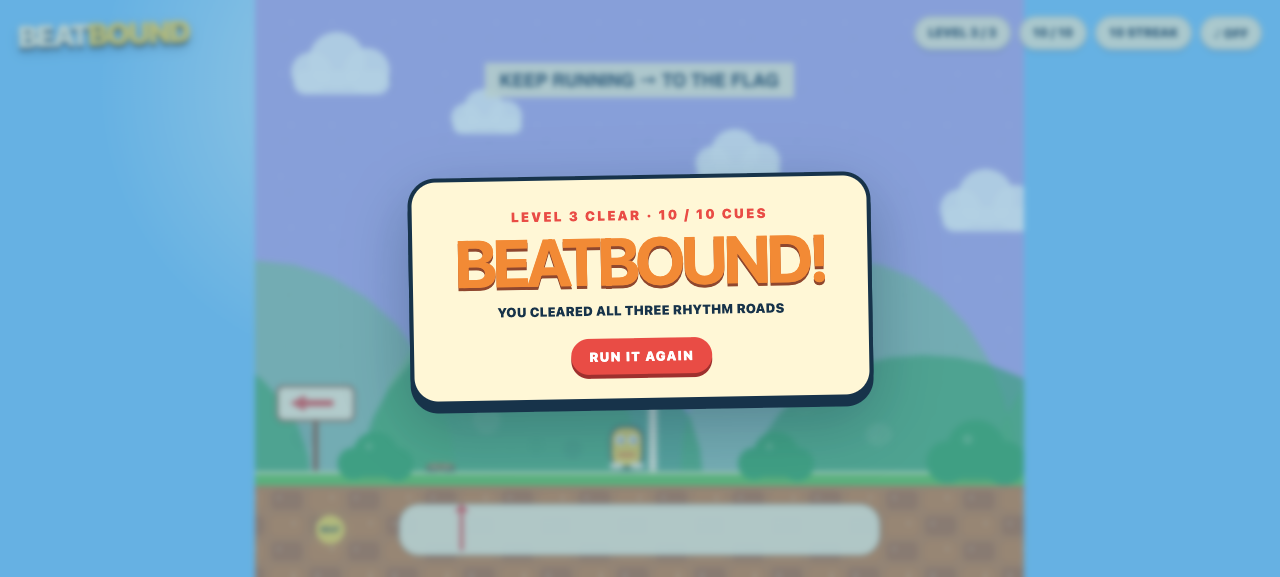
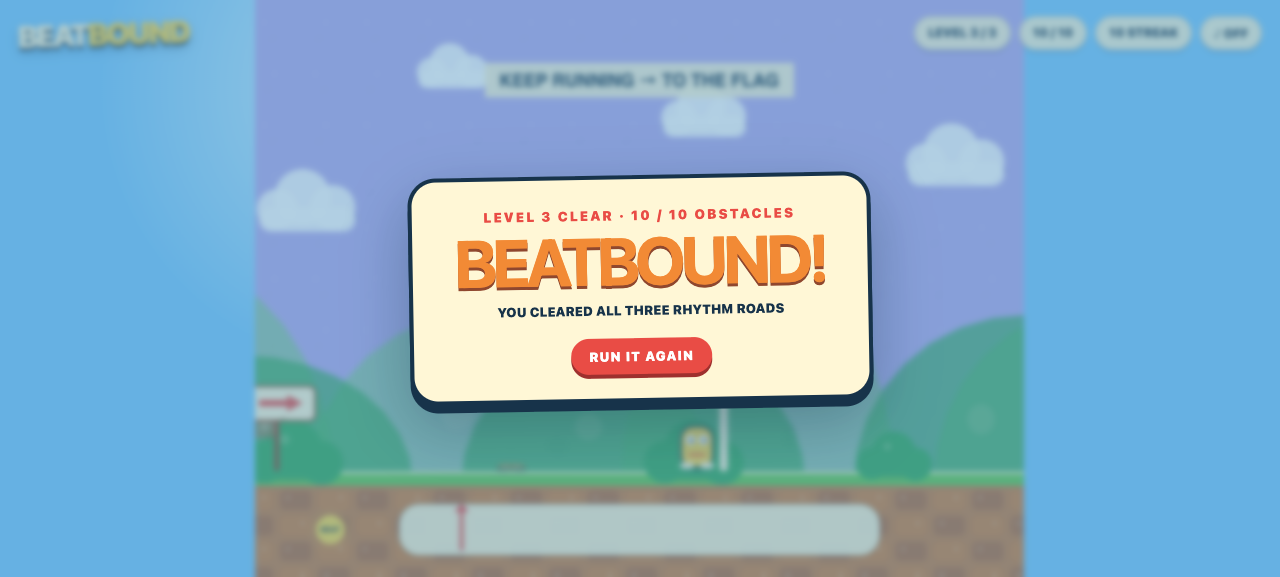
Make rhythm cues optional and simplify level three

diff --git a/rhythm-platformer/src/main.ts b/rhythm-platformer/src/main.ts
@@ -90,7 +90,6 @@ class GameScene extends Phaser.Scene {
   private elapsedMs = 0;
   private nextEvent = 0;
   private combo = 0;
-  private accepted = new Set<number>();
   private cleared = new Set<number>();
   private autoPressed = new Set<number>();
   private moveAxis: -1 | 0 | 1 = 0;
@@ -207,7 +206,7 @@ class GameScene extends Phaser.Scene {
 
     for (let i = 0; i < 16; i += 1) {
       const x = 390 + i * 250;
-      if (i % 3 === 0) this.drawBeatBlock(ground, x, 425 - (i % 2) * 45);
+      if (i % 3 === 0) this.drawMusicNote(ground, x, 425 - (i % 2) * 45);
       else this.drawBush(ground, x, 585, 0.8 + (i % 2) * 0.25);
     }
 
@@ -249,13 +248,11 @@ class GameScene extends Phaser.Scene {
     g.fillStyle(COLORS.cream, 0.22).fillCircle(x - 10 * scale, y - 35 * scale, 6 * scale);
   }
 
-  private drawBeatBlock(g: Phaser.GameObjects.Graphics, x: number, y: number): void {
-    g.fillStyle(COLORS.ink, 0.18).fillRoundedRect(x - 24, y - 19, 54, 54, 7);
-    g.fillStyle(COLORS.yellow, 1).fillRoundedRect(x - 27, y - 25, 54, 54, 7);
-    g.lineStyle(3, COLORS.orange, 0.8).strokeRoundedRect(x - 27, y - 25, 54, 54, 7);
-    g.fillStyle(COLORS.cream, 0.9).fillCircle(x - 17, y - 15, 3).fillCircle(x + 17, y - 15, 3)
-      .fillCircle(x - 17, y + 19, 3).fillCircle(x + 17, y + 19, 3);
-    g.fillStyle(COLORS.orange, 1).fillCircle(x, y - 5, 8).fillRect(x - 3, y + 2, 6, 12);
+  private drawMusicNote(g: Phaser.GameObjects.Graphics, x: number, y: number): void {
+    g.fillStyle(COLORS.cream, 0.16).fillCircle(x, y, 39);
+    g.fillStyle(COLORS.ink, 0.16).fillEllipse(x - 10, y + 17, 22, 15);
+    g.fillStyle(COLORS.ink, 0.16).fillRect(x - 3, y - 22, 7, 40);
+    g.fillStyle(COLORS.ink, 0.16).fillTriangle(x + 4, y - 22, x + 25, y - 13, x + 4, y - 5);
   }
 
   private drawRunSign(g: Phaser.GameObjects.Graphics, event: BeatEvent): void {
@@ -337,12 +334,12 @@ class GameScene extends Phaser.Scene {
     const titles = [
       'RUN RIGHT.<br>JUMP BIG.',
       'JUMP OR<br>DUCK.',
-      'FOLLOW THE<br>ARROWS.',
+      'FINAL<br>DASH.',
     ];
     const controls = [
       'HOLD D OR → &nbsp; · &nbsp; HOLD SPACE FOR A BIGGER JUMP',
       'SPACE = JUMP &nbsp; · &nbsp; HOLD S OR ↓ TO STAY LOW',
-      'A / D = RUN &nbsp; · &nbsp; HOLD ACTIONS &nbsp; · &nbsp; HIT THE BEAT',
+      'KEEP RIGHT &nbsp; · &nbsp; THE BEAT HELPS, BUT THE ROAD DECIDES',
     ];
     return `
       <small>LEVEL ${this.currentLevelIndex + 1} · ${this.definition.name} · ${BPM} BPM</small>
@@ -565,7 +562,6 @@ class GameScene extends Phaser.Scene {
     this.elapsedMs = 0;
     this.nextEvent = 0;
     this.combo = 0;
-    this.accepted.clear();
     this.cleared.clear();
     this.autoPressed.clear();
     this.jumpStartedAt = -Infinity;
@@ -601,27 +597,17 @@ class GameScene extends Phaser.Scene {
     const delta = timingDeltaMs(this.elapsedMs, event);
 
     if (Math.abs(delta) > ACTION_WINDOW_MS) {
-      if (delta < -ACTION_WINDOW_MS) this.feedback('OFF BEAT · TRY AGAIN ON THE CUE', COLORS.orange);
+      if (delta < -ACTION_WINDOW_MS) this.feedback('OFF BEAT · WATCH THE ROAD', COLORS.orange);
       return;
     }
-    if (action !== event.action) {
-      this.fail(`NEEDED ${event.action.toUpperCase()}`);
-      return;
-    }
-    if (Math.abs(this.character.x - event.to.x) > POSITION_TOLERANCE) {
-      const behind = event.direction === 1 ? this.character.x < event.to.x : this.character.x > event.to.x;
-      this.fail(behind ? `KEEP HOLDING ${event.direction === 1 ? '→' : '←'}` : 'TOO FAR AHEAD');
-      return;
-    }
+    if (action !== event.action || Math.abs(this.character.x - event.to.x) > POSITION_TOLERANCE) return;
 
-    this.accepted.add(event.index);
     this.nextEvent += 1;
     this.combo += 1;
     const perfect = Math.abs(delta) <= 80;
     this.feedback(perfect ? `PERFECT ${action.toUpperCase()}!` : 'NICE!', perfect ? COLORS.mint : COLORS.yellow);
     this.audio.hit(action, perfect ? 'perfect' : 'good');
     this.comboElement.textContent = `${this.combo} STREAK`;
-    this.progressElement.textContent = `${this.nextEvent} / ${this.level.length}`;
   }
 
   private beginAction(action: Action): boolean {
@@ -675,7 +661,7 @@ class GameScene extends Phaser.Scene {
     const hasNextLevel = this.currentLevelIndex < this.levels.length - 1;
     const next = this.levels[this.currentLevelIndex + 1];
     this.startButton.querySelector('.start-card')!.innerHTML = `
-      <small>LEVEL ${this.currentLevelIndex + 1} CLEAR · ${this.level.length} / ${this.level.length} CUES</small>
+      <small>LEVEL ${this.currentLevelIndex + 1} CLEAR · ${this.level.length} / ${this.level.length} OBSTACLES</small>
       <strong>${hasNextLevel ? 'NICE RUN!' : 'BEATBOUND!'}</strong>
       <em>${hasNextLevel ? `NEXT: ${next.name} · ${next.subtitle}` : 'YOU CLEARED ALL THREE RHYTHM ROADS'}</em>
       <span class="start-cta">${hasNextLevel ? 'NEXT LEVEL' : 'RUN IT AGAIN'}</span>`;
@@ -709,8 +695,9 @@ class GameScene extends Phaser.Scene {
       }
     }
     if (event && timingDeltaMs(this.elapsedMs, event) > ACTION_WINDOW_MS) {
-      this.fail(`MISSED THE ${event.action.toUpperCase()}`);
-      return;
+      this.nextEvent += 1;
+      this.combo = 0;
+      this.comboElement.textContent = '0 STREAK';
     }
 
     this.updateCharacter(gameDeltaMs);
@@ -730,7 +717,7 @@ class GameScene extends Phaser.Scene {
     const finalEvent = this.level[this.level.length - 1];
     const finishX = finalEvent.hazardX + finalEvent.direction * 230;
     const reachedFinish = finalEvent.direction === 1 ? this.character.x >= finishX : this.character.x <= finishX;
-    if (this.nextEvent === this.level.length && reachedFinish) this.win();
+    if (this.cleared.size === this.level.length && reachedFinish) this.win();
   }
 
   private updateCharacter(gameDeltaMs: number): void {
@@ -767,10 +754,11 @@ class GameScene extends Phaser.Scene {
       const passed = event.direction === 1
         ? this.character.x > event.hazardX + 48
         : this.character.x < event.hazardX - 48;
-      if (this.accepted.has(event.index) && passed && !this.cleared.has(event.index)) {
+      if (passed && !this.cleared.has(event.index)) {
         this.cleared.add(event.index);
         enemy.setAlpha(0.35);
         if (event.action === 'jump') enemy.setScale(1, 0.3).setY(584);
+        this.progressElement.textContent = `${this.cleared.size} / ${this.level.length}`;
       }
     });
   }
@@ -778,7 +766,6 @@ class GameScene extends Phaser.Scene {
   private checkHazardCollisions(): void {
     for (const event of this.level) {
       if (this.cleared.has(event.index)) continue;
-      if (event.index !== this.nextEvent && !this.accepted.has(event.index)) continue;
       if (Math.abs(this.character.x - event.hazardX) > 42) continue;
       if (event.action === 'jump') {
         const playerBottom = this.character.y + 26 * this.character.scaleY;
@@ -824,7 +811,9 @@ class GameScene extends Phaser.Scene {
     const next = this.level[this.nextEvent];
     if (!next) {
       const direction = this.level[this.level.length - 1].direction === 1 ? '→' : '←';
-      this.promptText.setText(`KEEP RUNNING ${direction} TO THE FLAG`);
+      this.promptText.setText(this.cleared.size === this.level.length
+        ? `KEEP RUNNING ${direction} TO THE FLAG`
+        : `CUES OVER · WATCH THE ROAD ${direction}`);
       return;
     }
     const beatsAway = Math.max(0, Math.ceil((beatToMs(next.beat) - elapsedMs) / BEAT_MS));

diff --git a/rhythm-platformer/src/level.ts b/rhythm-platformer/src/level.ts
@@ -66,14 +66,14 @@ const DUCK_AND_RUN: EventSpec[] = [
   { beats: 4, action: 'duck', direction: 1 },
 ];
 
-const SWITCHBACK: EventSpec[] = [
+const FINAL_DASH: EventSpec[] = [
   // Give the final road a clear count-in: its opening jump lands on beat one of bar two.
   { beats: BEATS_PER_BAR, action: 'jump', direction: 1 },
   { beats: 3, action: 'duck', direction: 1 },
   { beats: 3, action: 'jump', direction: 1 },
-  { beats: 4, action: 'jump', direction: -1 },
-  { beats: 3, action: 'duck', direction: -1 },
-  { beats: 3, action: 'jump', direction: -1 },
+  { beats: 4, action: 'jump', direction: 1 },
+  { beats: 3, action: 'duck', direction: 1 },
+  { beats: 3, action: 'jump', direction: 1 },
   { beats: 3, action: 'duck', direction: 1 },
   { beats: 2, action: 'jump', direction: 1 },
   { beats: 2, action: 'duck', direction: 1 },
@@ -109,7 +109,7 @@ export function createLevels(): LevelDefinition[] {
   const definitions = [
     { id: 'beginner-road', name: 'BEGINNER ROAD', subtitle: 'RUN RIGHT · JUMP BIG', startX: START_X, specs: TUTORIAL },
     { id: 'bop-and-duck', name: 'BOP & DUCK', subtitle: 'TWO MOVES · QUICKER CUES', startX: START_X, specs: DUCK_AND_RUN },
-    { id: 'switchback', name: 'SWITCHBACK SPRINT', subtitle: 'WATCH THE ARROWS', startX: 1_350, specs: SWITCHBACK },
+    { id: 'final-dash', name: 'FINAL DASH', subtitle: 'FAST CUES · ONE-WAY ROAD', startX: START_X, specs: FINAL_DASH },
   ] as const;
 
   return definitions.map(({ specs, ...definition }) => ({

diff --git a/rhythm-platformer/src/level.test.ts b/rhythm-platformer/src/level.test.ts
@@ -22,7 +22,7 @@ describe('three-level beat road', () => {
     expect(levels.map((level) => level.events.length)).toEqual([7, 9, 10]);
     expect(new Set(levels[0].events.map((event) => event.action))).toEqual(new Set(['jump']));
     expect(new Set(levels[1].events.map((event) => event.action))).toEqual(new Set(['jump', 'duck']));
-    expect(new Set(levels[2].events.map((event) => event.direction))).toEqual(new Set([-1, 1]));
+    expect(levels[2].events.every((event) => event.direction === 1)).toBe(true);
   });
 
   it('gives every level one continuous, traversable route', () => {
@@ -39,7 +39,7 @@ describe('three-level beat road', () => {
     }
   });
 
-  it('starts the switchback with a jump on a strong downbeat', () => {
+  it('starts the final dash with a jump on a strong downbeat', () => {
     const opening = levels[2].events[0];
     expect(opening.action).toBe('jump');
     expect(isDownbeat(opening.beat)).toBe(true);

diff --git a/rhythm-platformer/README.md b/rhythm-platformer/README.md
@@ -2,11 +2,11 @@
 
 Beatbound is a three-level rhythm platformer built with Phaser and Tone.js. Hold a direction for several beats, then jump or duck when the next cue reaches the timing marker. The procedural soundtrack layers a heavy downbeat, an eight-bar lead melody, a changing chord progression, and a one-beat audio warning for every action.
 
-The bright side-scrolling roads use small enemies, rolling hills, clouds, beat blocks, and a procedural dash-and-dot background texture. The difficulty now builds across three short stages:
+The bright side-scrolling roads use small enemies, rolling hills, clouds, background music notes, and a procedural dash-and-dot texture. The difficulty now builds across three short stages:
 
 1. **Beginner Road** — seven forgiving jumps with long four-to-five-beat runs.
 2. **Bop & Duck** — adds low flyers, duck cues, and three-beat patterns.
-3. **Switchback Sprint** — opens with a jump on the strong downbeat, mixes both actions and directions, and finishes with two-beat cues.
+3. **Final Dash** — opens with a jump on the strong downbeat, keeps every obstacle on one readable road, and finishes with two-beat cues.
 
 ```bash
 bun install
@@ -16,7 +16,8 @@ bun run dev
 - **Move:** hold **A / D** or **← / →**.
 - **Jump:** press **Space / W / ↑**; hold briefly for a slightly higher jump.
 - **Duck:** hold **S / ↓**; release to stand early. Ducks end automatically after 1.25 beats.
-- Actions always respond off-beat, but only cue-timed actions build the streak and clear the rhythm prompt.
+- Actions always work off-beat; cue-timed actions build the streak, while off-beat play relies on reading the road yourself.
+- Every visible bouncer and flyer has a normal platformer collision. Only hitting an obstacle fails the run—missing a rhythm cue does not.
 - A failed or completed run restarts immediately with one press. Held movement remains active through a Space restart.
 - `bun run test` validates all three routes, beat quantization, run distance, progression, and timing precision.
 - `?music=off` starts muted.

diff --git a/rhythm-platformer/PITCH.md b/rhythm-platformer/PITCH.md
@@ -1,6 +1,6 @@
 # Beatbound
 
-**Run right. Jump big. Then keep up.** Beatbound turns three bright, toy-box platforming roads into rhythms you can see. Learn the groove with seven generous jumps, add low-flying duck cues as the pattern quickens, then read both action and direction through the final switchback sprint. Tiny bouncers, musical warnings, and a chunky procedural soundtrack make every move readable—while a perfect three-level streak still takes focus all the way to the flag.
+**Run right. Jump big. Then keep up.** Beatbound turns three bright, toy-box platforming roads into rhythms you can see. Learn the groove with seven generous jumps, add low-flying duck cues as the pattern quickens, then face a final straightaway packed with two-beat decisions. Tiny bouncers, musical warnings, and a chunky procedural soundtrack make every move readable—but the beat is a guide, not a leash: go off rhythm and you can still survive by reading the road yourself.
 
 ![Beatbound beginner road](screenshots/beginner-road-gameplay.png)
 
